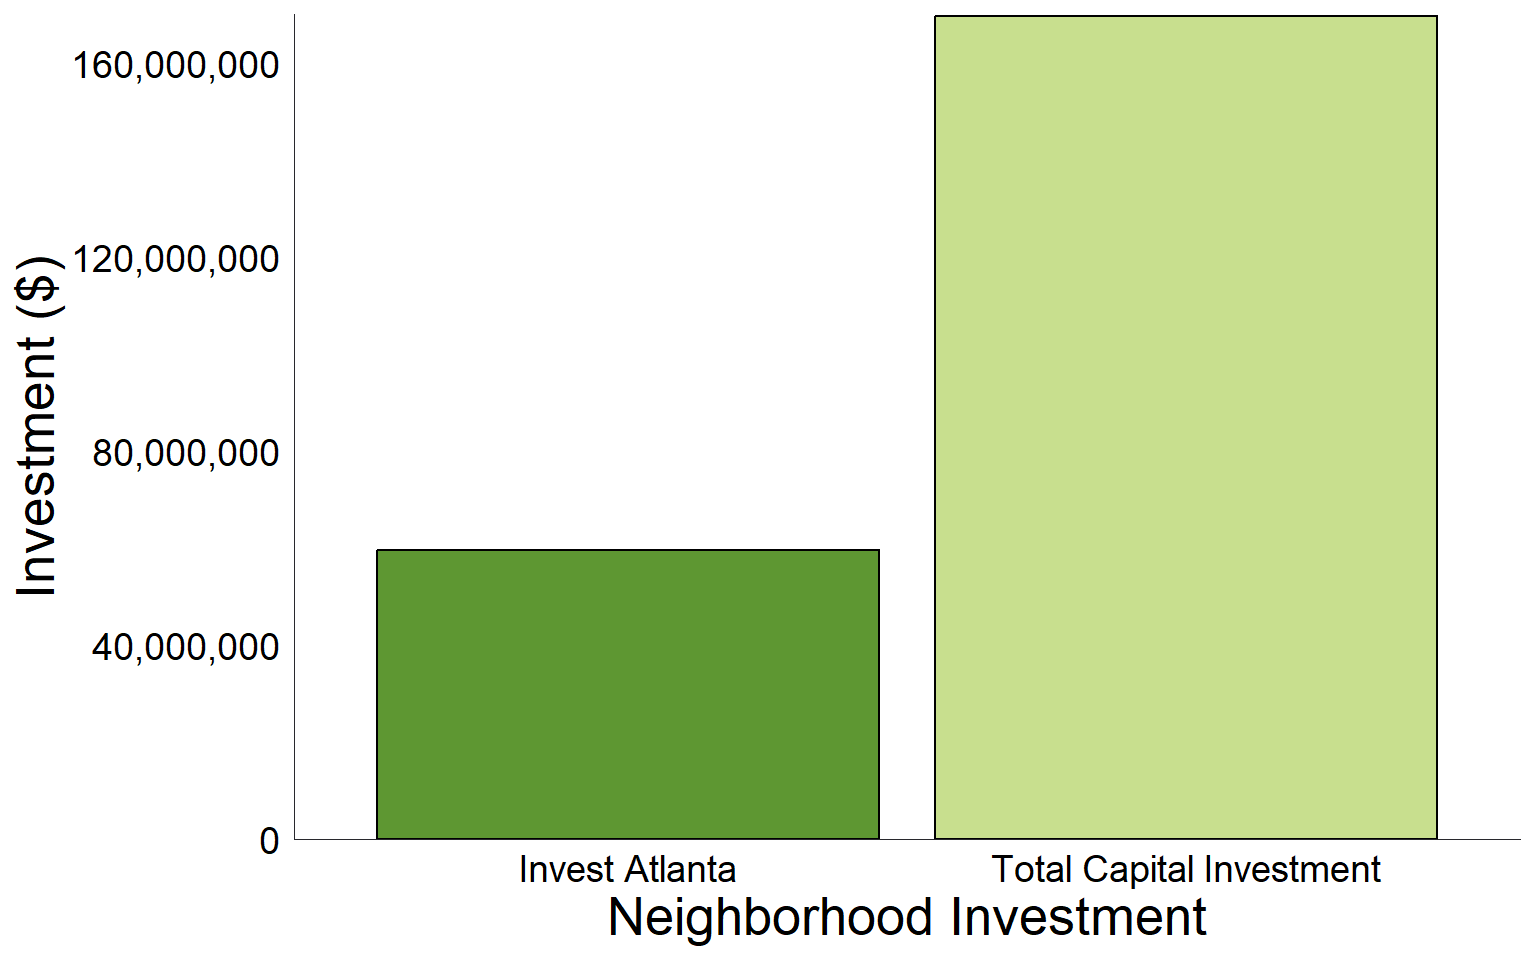
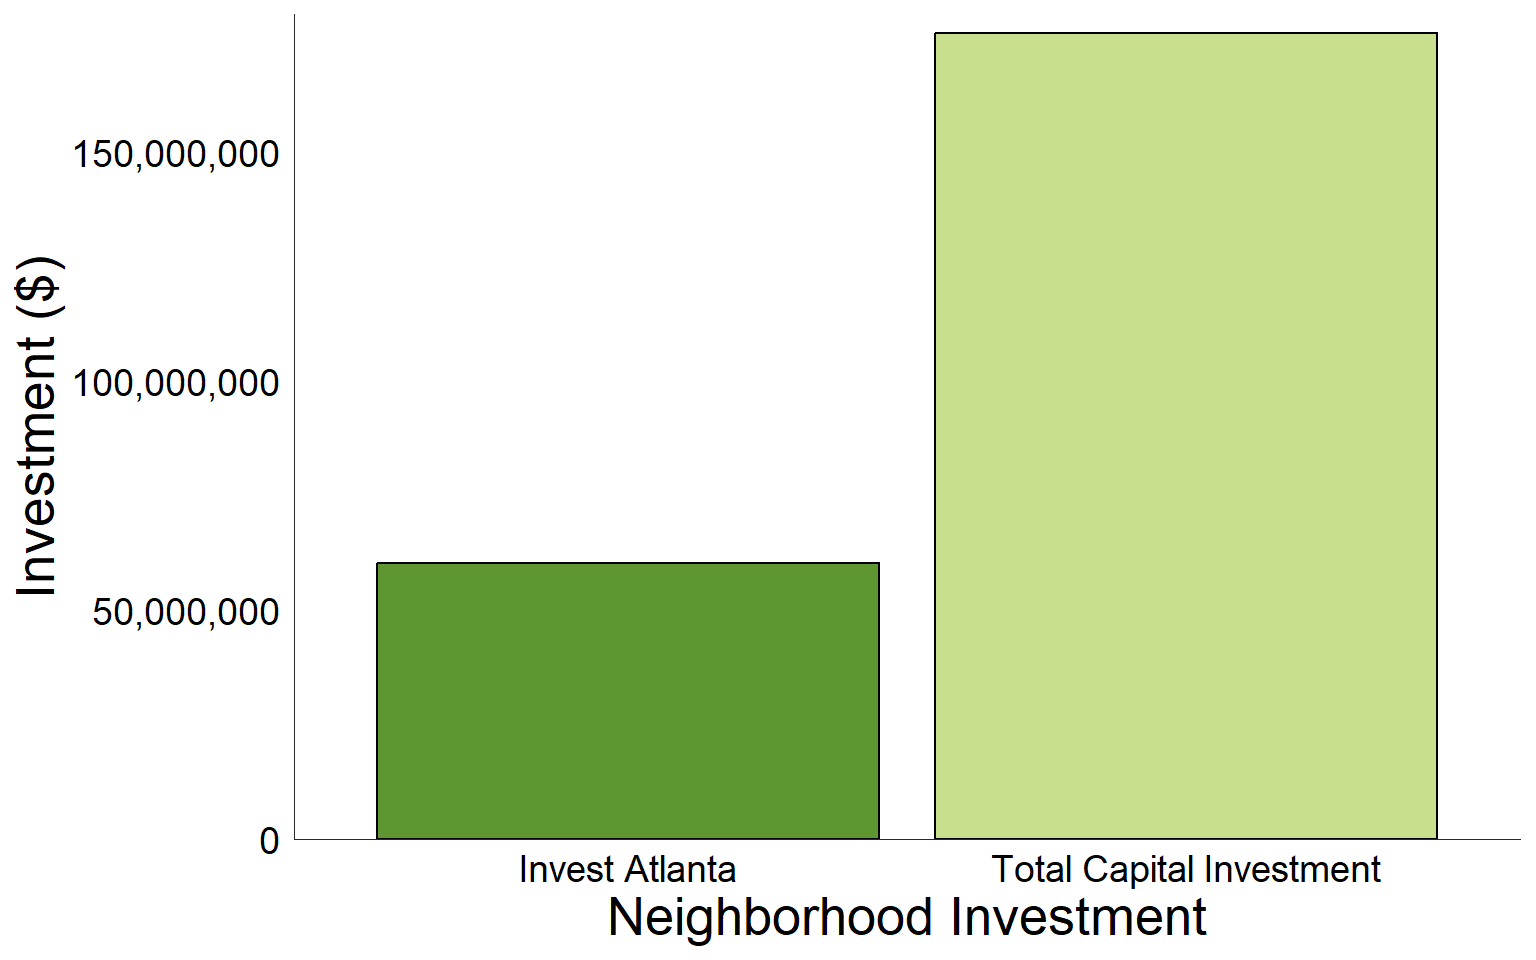
Built site for gh-pages

diff --git a/index.html b/index.html
@@ -84,7 +84,7 @@ grid-auto-rows: minmax(0, 1fr);">
 Total Capital Investment Across All Programs
 </p>
 <p class="value-box-value">
-$1.53 Billion
+$1.57 Billion
 </p>
 </div>
 </div>
@@ -116,7 +116,7 @@ $1.85 Billion
 Total Capital Invested in Disinvested Neighborhoods
 </p>
 <p class="value-box-value">
-61%
+62%
 </p>
 </div>
 </div>
@@ -298,7 +298,7 @@ grid-auto-rows: minmax(0, 1fr);">
 Invest Atlanta Funding
 </p>
 <p class="value-box-value">
-$59.6 Million
+$60.2 Million
 </p>
 </div>
 </div>
@@ -412,7 +412,7 @@ grid-auto-rows: minmax(0, 1fr);">
 Total Capital Invested (Housing)
 </p>
 <p class="value-box-value">
-$1 Billion
+$1.05 Billion
 </p>
 </div>
 </div>
@@ -524,7 +524,7 @@ grid-auto-rows: minmax(0, 1fr);">
 Total Capital Investment (Jobs &amp; Employment)
 </p>
 <p class="value-box-value">
-$146.5 Million
+$147.5 Million
 </p>
 </div>
 </div>
